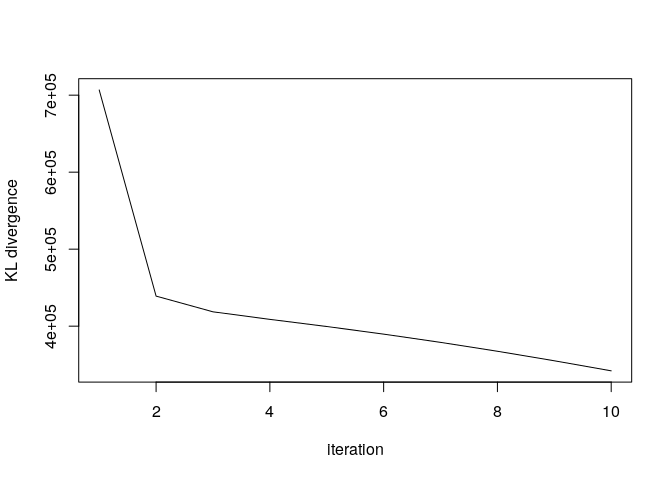
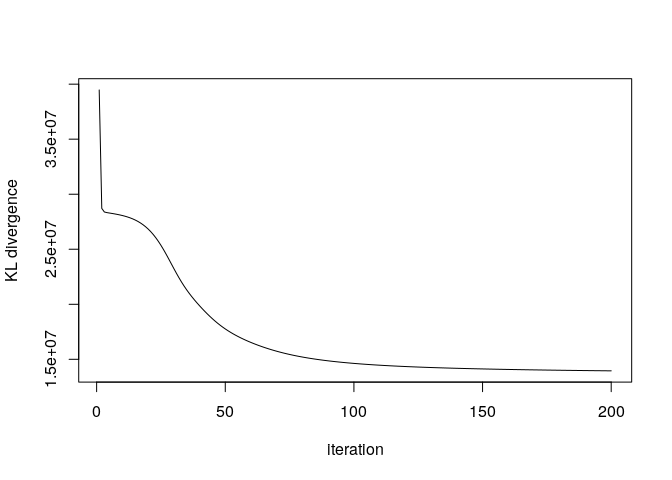
run post with K=10 and iters=200

diff --git a/_posts/2018-09-03-NMF_Lee_Seung.md b/_posts/2018-09-03-NMF_Lee_Seung.md
@@ -72,16 +72,16 @@ In our case, *F*(*h*) is a KL divergence. In their paper, Lee and Seung
 provide an auxiliary function which can be easily minimized. Doing this
 for *W* and *H* we obtain the classic NMF updates:
 
-\begin{equation}
+$$
 W_{fk} \leftarrow W_{fk}
 \frac
-{\sum_{n} H_{kn} \frac{V_{fn}}{[WH]_{fn}}}
+{\sum_n H_{kn} \frac{V_{fn}}{[WH]_{fn}}}
 {\sum_n H_{kn}},
 \qquad 
 H_{kn} \leftarrow H_{kn} 
-\frac{\sum_{f} W_{fk} \frac{V_{fn}}{[WH]_{fn}}}
+\frac{\sum_f W_{fk} \frac{V_{fn}}{[WH]_{fn}}}
 {\sum_f W_{fk}}
-\end{equation}
+$$
 
 Recall that the updates are supposed to minimize the KL divergence
 between the approximation and the true matrix. To monitorize this, let
@@ -188,28 +188,16 @@ dataset consists of 10 black and white photos of each member of a group
 Now we call our NMF algorithm using this dataset as input. Let say we
 want to use *K=10* latent dimensions, or dictionary basis.
 
-    V <- V[,1:10] #faces[,sample(400,100)]
-    F <- nrow(V)
-    N <- ncol(V)
-    K = 10
-    W <- matrix(rpois(n = F*K, lambda = 10), nrow = F, ncol = K) 
-    H <- matrix(rpois(n = N*K, lambda = 10), nrow = K, ncol = N) 
-    res <- nmf_Lee(V, K, W, H, maxiters = 10)
+	F <- nrow(V)
+	N <- ncol(V)
+	K = 10
+	W <- matrix(rpois(n = F*K, lambda = 10), nrow = F, ncol = K) 
+	H <- matrix(rpois(n = N*K, lambda = 10), nrow = K, ncol = N) 
+	res <- nmf_Lee(V, K, W, H, maxiters = 200))
 
-    ## 
-    ##  iteration: 1 / 10
-    ##  iteration: 2 / 10
-    ##  iteration: 3 / 10
-    ##  iteration: 4 / 10
-    ##  iteration: 5 / 10
-    ##  iteration: 6 / 10
-    ##  iteration: 7 / 10
-    ##  iteration: 8 / 10
-    ##  iteration: 9 / 10
-    ##  iteration: 10 / 10
 
 Did the algorithm convergence? The KL divergence is improving slowly
-after 100 iterations, so we will stop here.
+after 200 iterations, so we will stop here.
 
     plot(res$KLlog, type='l', ylab= "KL divergence", xlab = "iteration")
 
